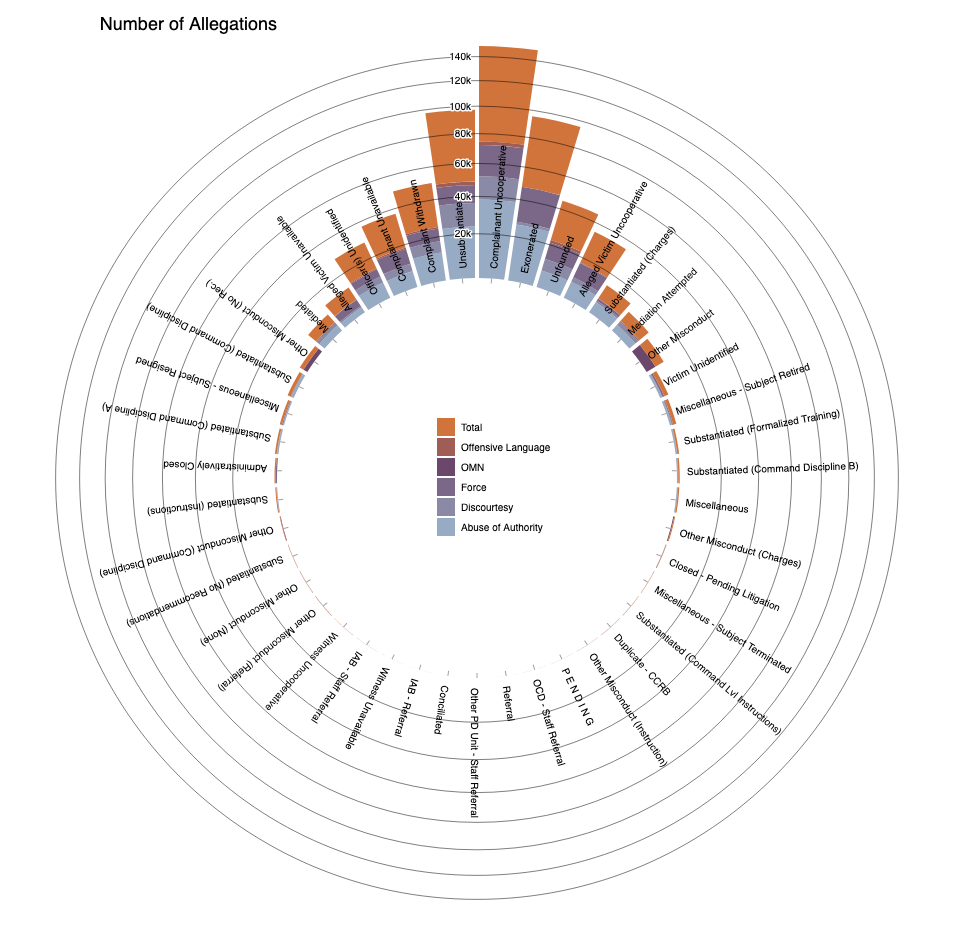
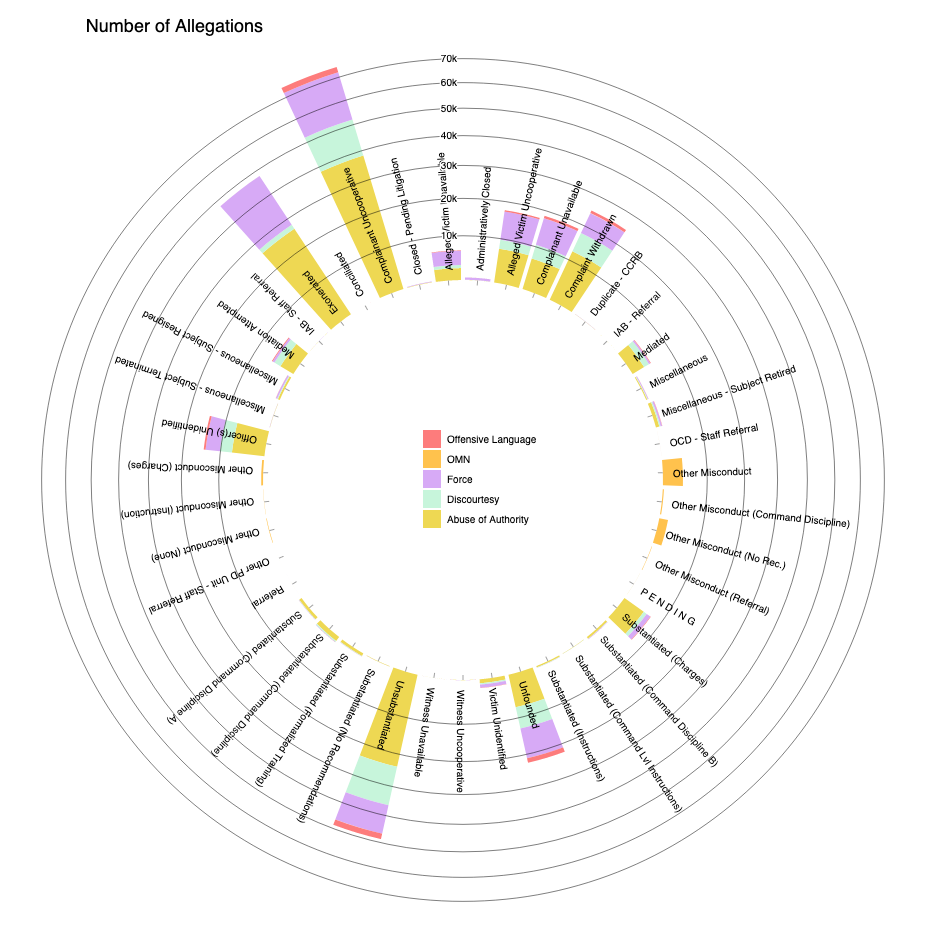
updated img

Changed region(s): [[0.0302, 0.0308, 0.9666, 0.9544], [0.4531, 0.431, 0.5739, 0.5849], [0.0906, 0.0, 0.302, 0.0616]]

diff --git a/01/index.html b/01/index.html
@@ -30,7 +30,9 @@ var y = d3.scaleRadial()
     .range([innerRadius, outerRadius]);
 
 var z = d3.scaleOrdinal()
-    .range(["#98abc5", "#8a89a6", "#7b6888", "#6b486b", "#a05d56", "#d0743c", "#ff8c00"]);
+    // .range(["#98abc5", "#8a89a6", "#7b6888", "#6b486b", "#a05d56", "#d0743c", "#ff8c00"]);
+    .range(["#eed853", "#C7F5DB", "#d7aaf6", "#ffc24d", "#fd7c7c"]);
+
 
 d3.csv("flipped.csv", function(d, i, columns) {
   for (i = 1, t = 0; i < columns.length; ++i) t += d[columns[i]] = +d[columns[i]];
